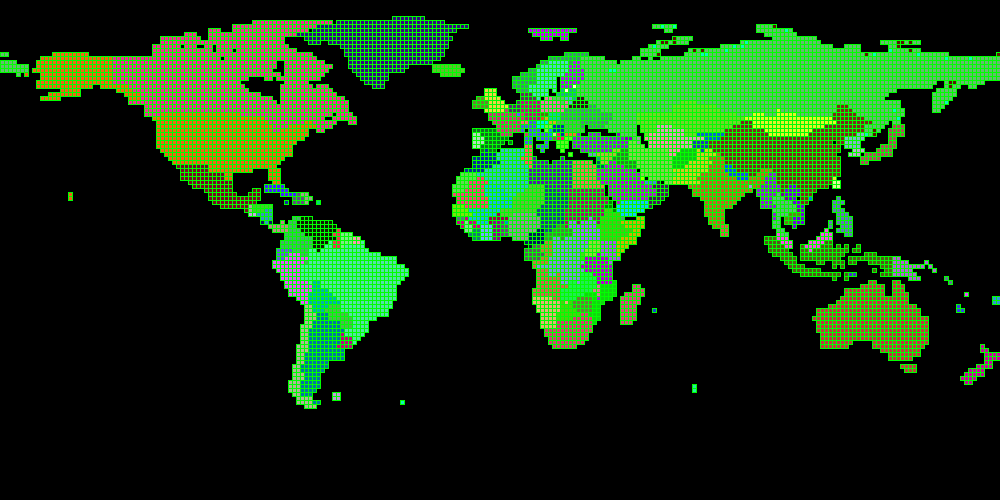
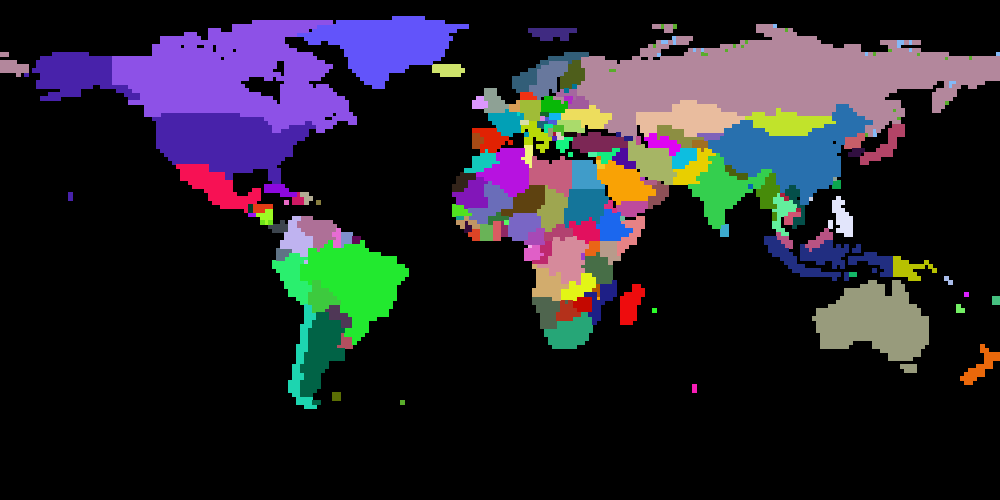
map update

diff --git a/pixel_map_gen.py b/pixel_map_gen.py
@@ -99,7 +99,7 @@ def create_img(points: dict[str, list[tuple[int, int]]], country_color_code: dic
             if map_x != -1:
                 # image.putpixel((scaled_x, scaled_y), color)
                 shape = [(map_x, map_y), (map_x + pixel_size, map_y + pixel_size)]
-                image1.rectangle(shape, fill = color, outline=(0,255,0))
+                image1.rectangle(shape, fill = color)
             else:
                 duplicate_count += 1
 
